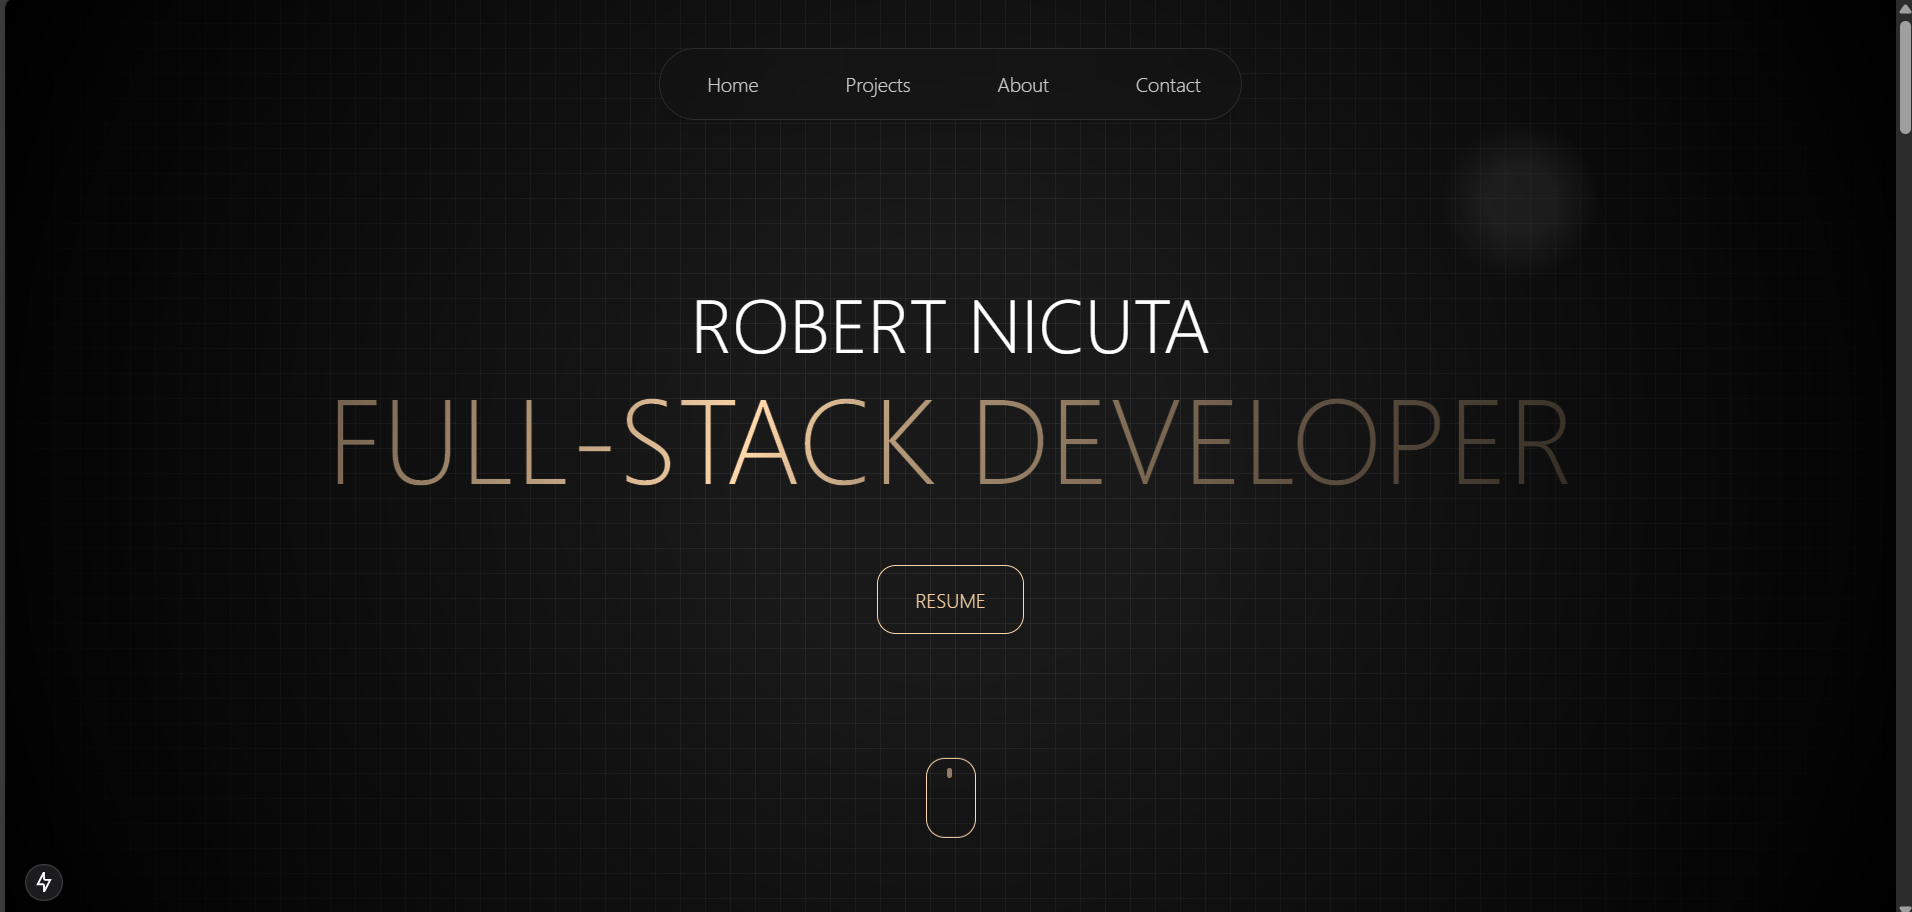
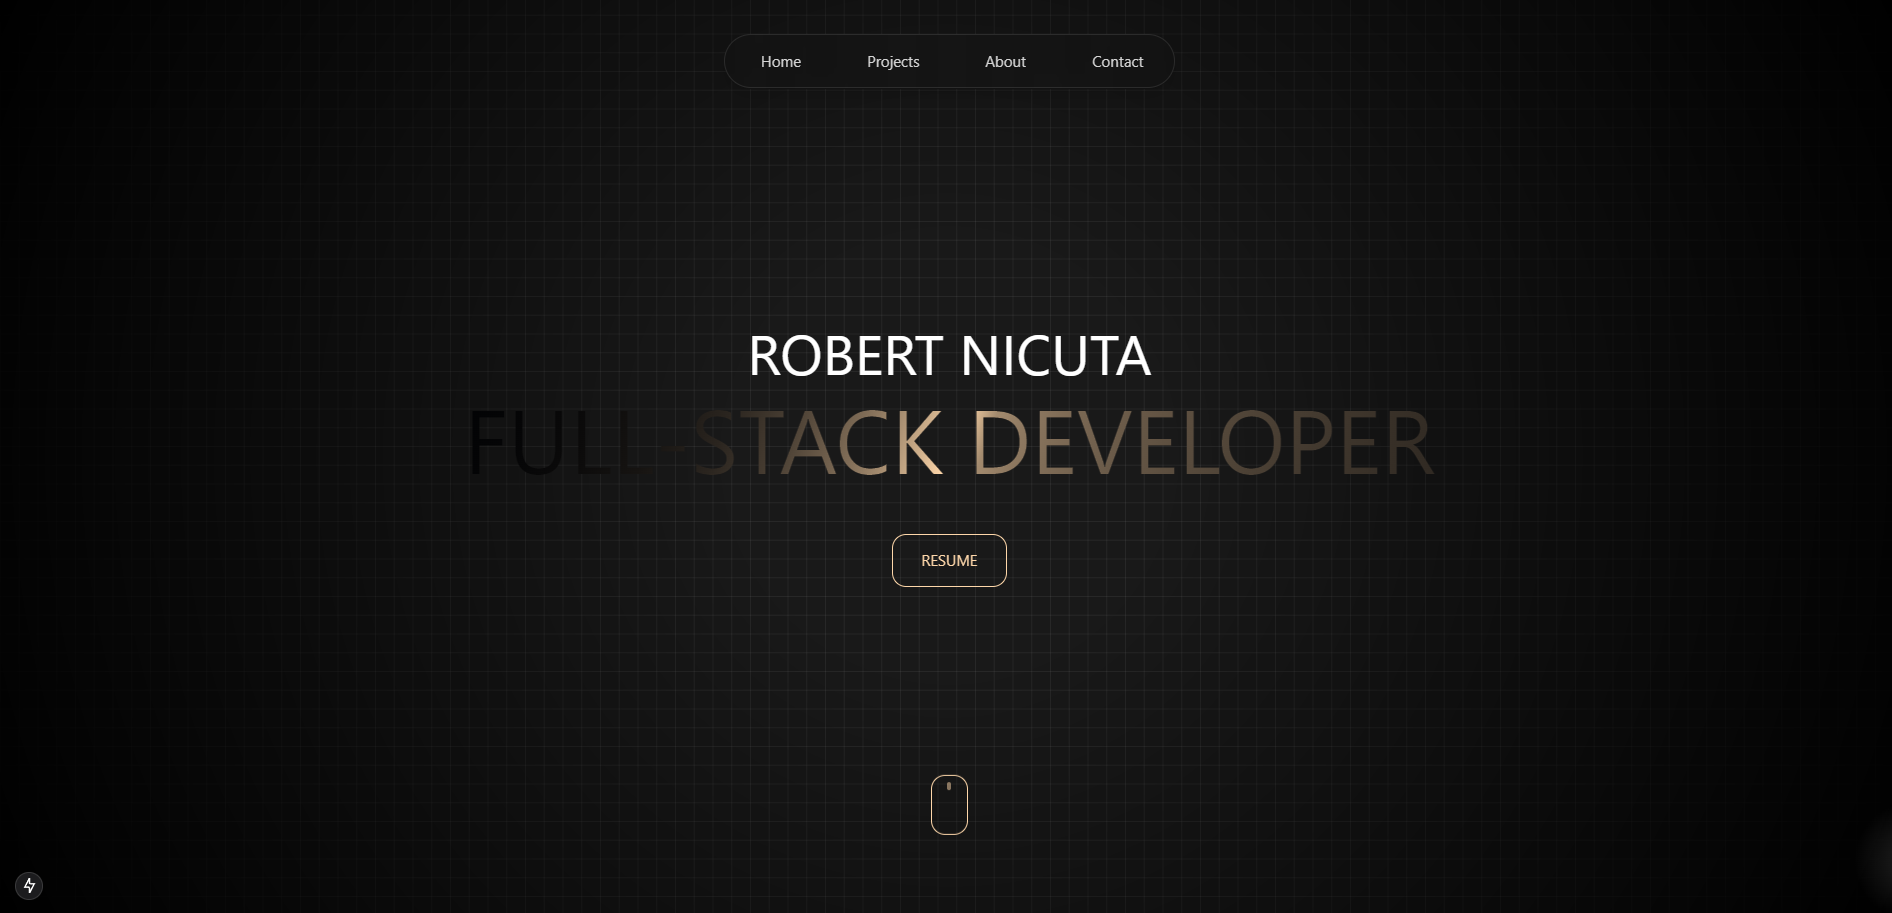
Ultimos retoques para despligue, web completada

diff --git a/src/data/projects.js b/src/data/projects.js
@@ -1,55 +1,55 @@
 const projects = [
   {
-    title: "Mi Portfolio",
+    title: "Mi Portafolio",
     description:
-      "La página en la que estás ahora mismo, web creada usando Next.Js y Tailwind. ",
+      "La página en la que estás ahora mismo. Web creada usando Next.js y Tailwind.",
     image: "/miportafolio.png",
     liveLink: "/",
-    githubLink: "/",
-    technologies: ["Next.Js", "TailWind", "JavaScript"],
+    githubLink: "https://github.com/robertnic9/mi-portafolio",
+    technologies: ["Next.js", "Tailwind", "JavaScript"],
   },
   {
-    title: "E-LearningPlataform",
+    title: "Juego Siete y Medio",
     description:
-      "Una aplicación web completa, con su base de datos, backend y frontend. Es una web para aprender online que ofrece varios cursos, en cada curso hay varios modulos en cada modulo hay tests donde el estudiante tiene que hacer para pasar al siguiente modulo. ",
-    image: "/miportafolio.png",
+      "Juego del Siete y Medio en el que se practica la lógica, las llamadas asíncronas y las peticiones al servidor.",
+    image: "/setymig.png",
+    liveLink: "http://vps-dadb9edf.vps.ovh.net/cartas/index.html",
+    githubLink: "https://github.com/robertnic9/set-i-mig",
+    technologies: ["PHP", "JavaScript", "HTML", "CSS"],
+  },
+  {
+    title: "Material Escolar Web",
+    description:
+      "Una tienda de material escolar con un chatbot de IA que se conecta a la API de Gemini 1.5 para responder al usuario. Además, cuenta con funcionalidad del lado cliente.",
+    image: "/materialescolar.png",
+    liveLink: "http://vps-dadb9edf.vps.ovh.net/WEB_MaterialEscolar/index.html",
+    githubLink: "https://github.com/robertnic9/material-escolar",
+    technologies: ["JavaScript", "HTML", "CSS"],
+  },
+  {
+    title: "E-Learning Platform",
+    description:
+      "Una aplicación web de e-learning que permite a los estudiantes inscribirse en cursos, completar módulos y realizar evaluaciones. Incluye autenticación de usuarios y seguimiento del progreso.",
+    image: "/elearning.png",
     liveLink: "/",
     githubLink: "/",
     technologies: ["React", "PHP", "JavaScript", "SASS"],
   },
   {
-    title: "Material Escolar Web",
-    description:
-      "Una tienda de material escolar con un ChatBot IA con su interfaz que se conecta a la API de GEMINEI 1-5 para responder al usuario, además de ser funcional de parte cliente.",
-    image: "/materialescolar.png",
-    liveLink: "/",
-    githubLink: "/",
-    technologies: ["JavaScript", "HTML", "CSS"],
-  },
-  {
-    title: "Juego Siete y Medio",
-    description:
-      "Juego del siete y medio en que se practica la logica, las llamadas asíncronas y peticiones al servidor",
-    image: "/miportafolio.png",
-    liveLink: "/",
-    githubLink: "/",
-    technologies: ["PHP", "JavaScript", "HTML", "CSS"],
-  },
-  {
-    title: "The outdor adventure ",
-    description:
-      "Una web hecha usando Bootstrap, para tener más conocimiento usando varios frameworks",
+    title: "The Outdoor Adventure",
+    description: "Una web creada usando el framework de CSS Bootstrap.",
     image: "/outdoor.png",
-    liveLink: "/",
+    liveLink: "http://vps-dadb9edf.vps.ovh.net/adventure/index.html",
+    githubLink: "https://github.com/robertnic9/adventure-web",
     technologies: ["HTML", "Bootstrap", "CSS"],
   },
   {
-    title: "Rural Hotel ",
+    title: "Rural Hotel Luxury",
     description:
-      "Web creada usando el SASS que facilita la estructura de css y su legibilidad",
-    image: "/miportafolio.png",
-    liveLink: "/",
-    githubLink: "/",
+      "Web creada usando SASS, lo que facilita la estructura de CSS y mejora su legibilidad.",
+    image: "/RuralHotelLuxury.png",
+    liveLink: "http://vps-dadb9edf.vps.ovh.net/ruralluxury/index.html",
+    githubLink: "https://github.com/robertnic9/rural-luxury",
     technologies: ["HTML", "SASS", "JavaScript"],
   },
 ];

diff --git a/src/components/ui/macbook-scroll.jsx b/src/components/ui/macbook-scroll.jsx
@@ -65,8 +65,8 @@ export const MacbookScroll = ({ src, showGradient, title, badge }) => {
           setIsMobile(false);
 
         } else if (isMobileView) {
-          console.log("Aplicando altura para móvil: 125vh");
-          setCalculatedHeight("125vh");
+          console.log("Aplicando altura para móvil: 130vh");
+          setCalculatedHeight("130vh");
         } else {
           console.log("Aplicando altura normal: 150vh");
           setCalculatedHeight("150vh");
@@ -230,7 +230,7 @@ export const Lid = ({ scaleX, scaleY, rotate, translate, src }) => {
             <div className="flip-card">
               <div className="flip-card-inner">
                 <div className="flip-card-front">
-                  <img src="/" className="" alt="Diseñador web en Formentera" />
+                  <img src="/robertnicuta.png" alt="Robert Nicuta" />
                 </div>
                 <div className="flip-card-back" loading="lazy">
                   <BreakoutGame />

diff --git a/src/components/Hero.jsx b/src/components/Hero.jsx
@@ -12,7 +12,7 @@ export default function Hero() {
       </p>
       <h1
         className="uppercase text-3xl md:text-8xl mb-4 text-center
-      bg-[linear-gradient(110deg,#0a0f2c,25%,#fed7aa,75%,#bfc9db,50%,#0a0f2c)] bg-[length:200%_100%] animate-shimmer bg-clip-text text-transparent"
+      bg-[linear-gradient(110deg,#1a1a1a,40%,#fed7aa,60%,#1a1a1a)] bg-[length:200%_100%] animate-shimmer bg-clip-text text-transparent"
       >
         Full-Stack Developer
       </h1>
